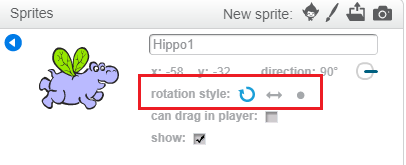
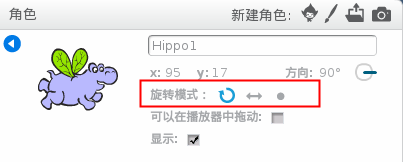
Update Chinese (simplified)

diff --git a/zh-CN/step_1.md b/zh-CN/step_1.md
@@ -1,14 +1,15 @@
-你可以设置子图的旋转方式。
+你可以设置角色旋转模式。
 
-+ 点击**子图**面板中该子图附近的蓝色 **i**。
+- 点击角色面板中角色附近的蓝色 **i**
 
-![Click on the i](images/click-i.png)
+![点击i](images/click-i.png)
 
-+ 点击你想要的旋转方式。
+- 点击你想要的旋转模式。
 
-![Different rotation style](images/rotation-style.png)
+![不同的旋转模式](images/rotation-style.png)
 
-旋转方式有：
-- 完整旋转 — 使子图指向其面对的方向
-- 左–右 — 仅使子图向左或向右翻转
-- 不旋转 — 无论子图面向哪个方向，都保持不变
+模式有：
+
+- 全部旋转 — 将角色指向它所面向的方向
+- 左–右 — 将角色向左或向右翻转
+- 不旋转— 无论方向如何，角色看上去是一样的
